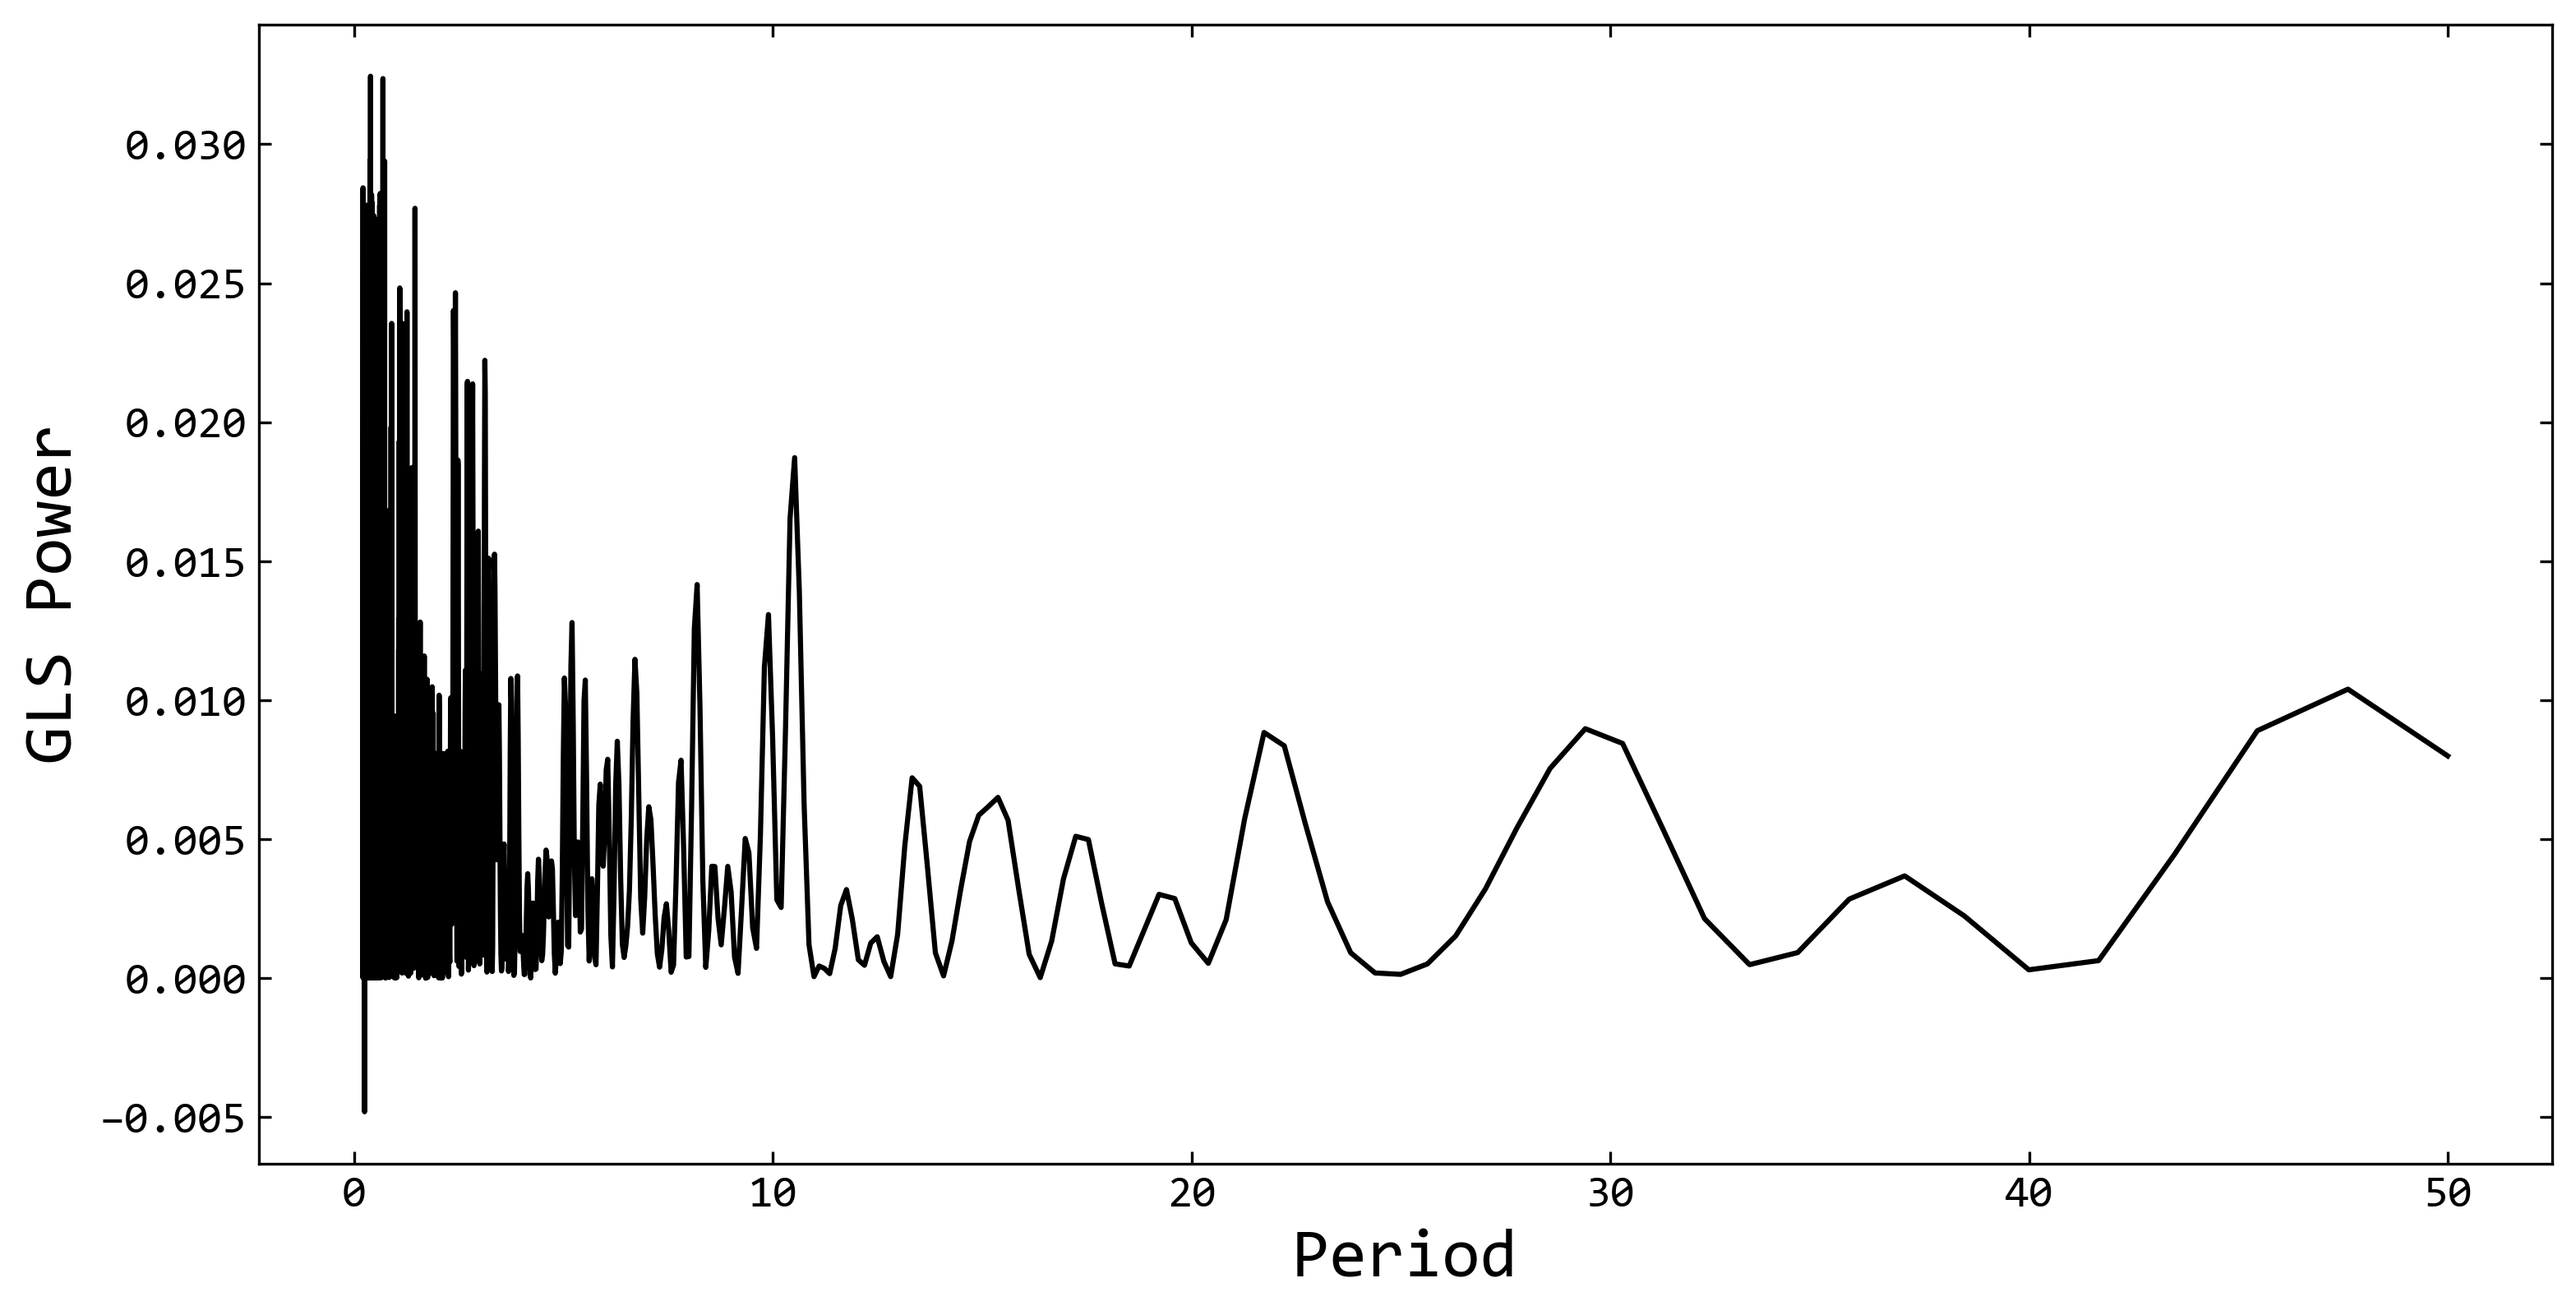
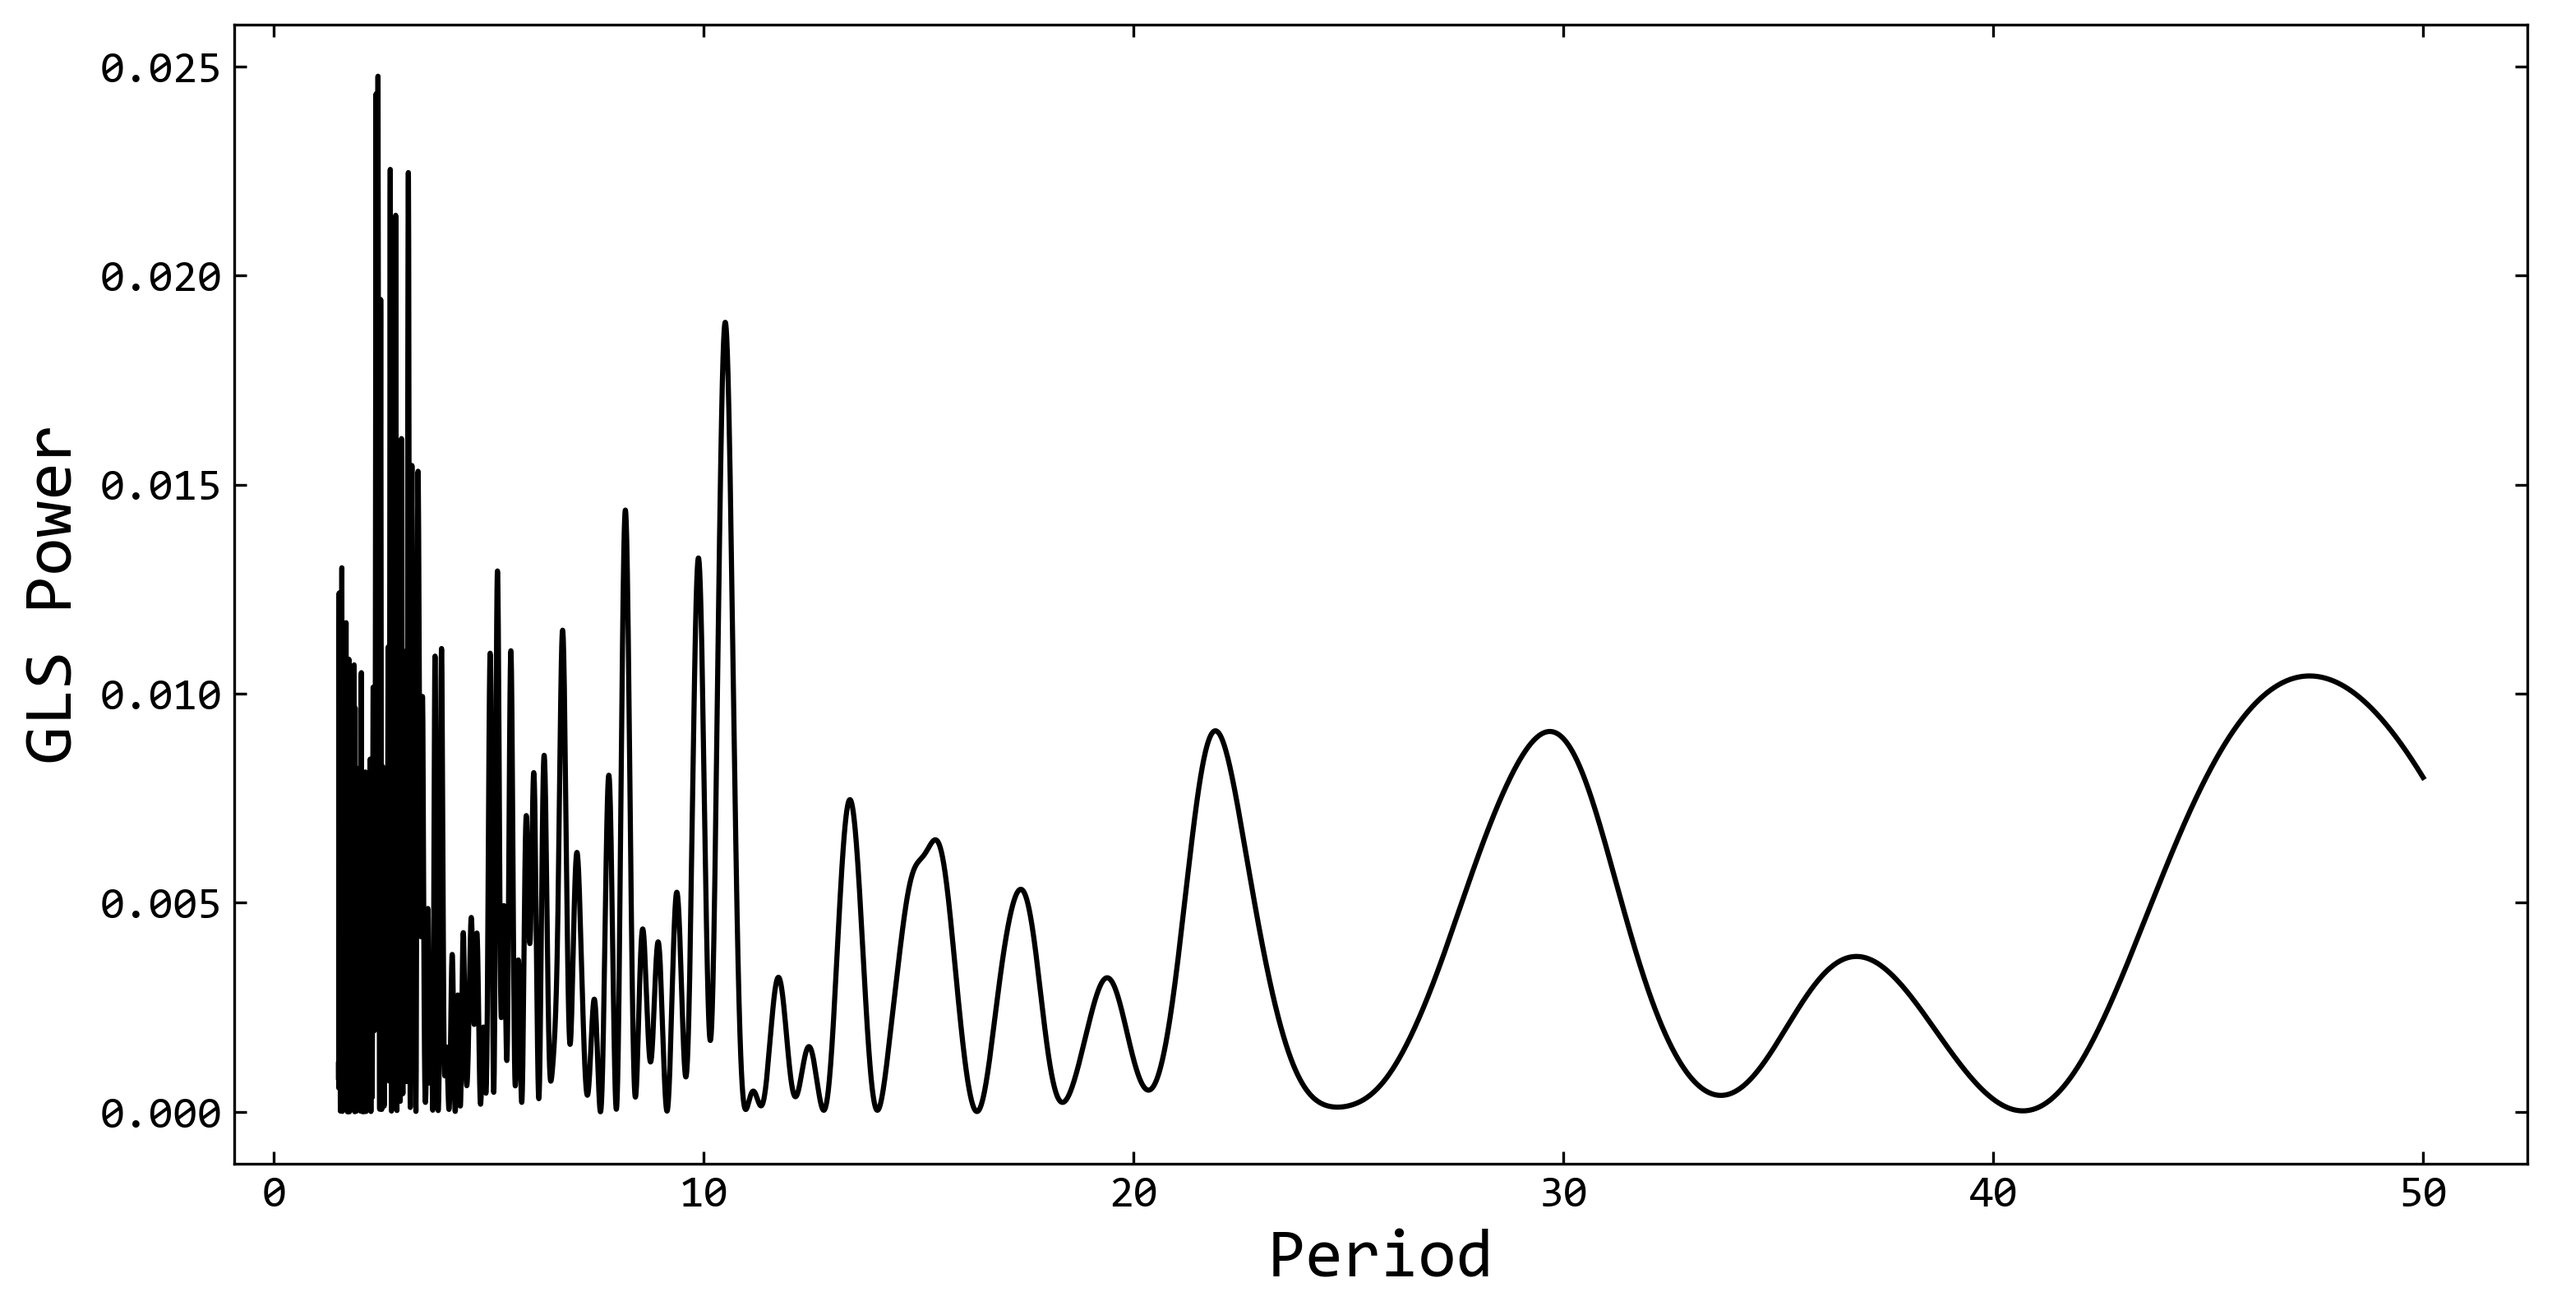
phase folding

diff --git a/PHY4005/q7.py b/PHY4005/q7.py
@@ -1,6 +1,8 @@
 import numpy as np
 from matplotlib import pyplot as plt
 from astropy.timeseries import LombScargle
+from scipy.optimize import curve_fit
+
 
 
 plt.rcParams["font.family"] = "Consolas"
@@ -30,6 +32,14 @@ data_uncertainties = {
     'Boblins_star_RVs': Boblins_star_RVs_uncertainties,
     'Watsons_star_BIS': Watsons_star_BIS_uncertainties,
     'Watsons_star_RVs': Watsons_star_RVs_uncertainties
+}
+
+data_periods = {
+    # 'Boblins_star_BIS': 2.42, # Actual: 2.42 - not correct, coppied from RV
+    'Boblins_star_BIS': 27.23, # Actual: 2.42 - not correct, coppied from RV
+    'Boblins_star_RVs': 27.23,
+    'Watsons_star_BIS': 24.78,
+    'Watsons_star_RVs': 24.87
 }
 
 def my_plot(x, y, x_label, y_label, filename):
@@ -71,6 +81,11 @@ def my_plot(x, y, x_label, y_label, filename):
 
     plt.show()
 
+
+# Sine wave
+def sinusoidal(t, A, f, phi, c):
+    return A * np.sin(2 * np.pi * f * t + phi) + c
+
 for data in data_files:
 
     my_plot(
@@ -85,13 +100,30 @@ for data in data_files:
     # dominated by data gaps and the baseline of the data themselves.
     max_period = 50  # in days
     min_frequency = 1.0 / max_period
+    min_period = 1.5  # in days
+    max_frequency = 1.0 / min_period
 
     # Generalised Lomb Scargle periodogram
     frequency, power = LombScargle(
         Observing_times,
         data_files[data],
         dy=data_uncertainties[data]
-    ).autopower(minimum_frequency=min_frequency)
+    ).autopower(
+        maximum_frequency=max_frequency,
+        minimum_frequency=min_frequency,
+        samples_per_peak=1000
+    )
+
+    # Find the index of the maximum power
+    max_power_index = np.argmax(power)
+
+    # Get the corresponding frequency
+    frequency_at_max_power = frequency[max_power_index]
+
+    # Calculate the period from the frequency
+    period_at_max_power = 1 / frequency_at_max_power
+
+    print(f"{data}_GLS\t{period_at_max_power} days")
 
     my_plot(
         1 / frequency,
@@ -100,3 +132,108 @@ for data in data_files:
         "GLS Power",
         f'PHY4005/plots/{data}_GLS.png'
     )
+
+
+
+    # Using periods obtained from periodograms
+    period = data_periods[data]
+
+    # Initial guess for the parameters of the sinusoidal function
+    A_guess = (max(data_files[data]) - min(data_files[data])) / 2
+    phi_guess = 0  # Initial phase guess
+    c_guess = np.mean(data_files[data])
+
+    # Use curve_fit to fit the sinusoidal function to the data
+    popt, pcov = curve_fit(
+        sinusoidal,
+        Observing_times,
+        data_files[data],
+        sigma=data_uncertainties[data],
+        p0=[
+            A_guess,
+            1/period,
+            phi_guess,
+            c_guess
+        ]
+    )
+
+    # Plot the original data and the fitted sinusoidal curve
+    fig, ax = plt.subplots(figsize=(12, 6))
+    ax.errorbar(
+        Observing_times,
+        data_files[data],
+        yerr=data_uncertainties[data],
+        fmt='o',
+        label='Original Data',
+        color='blue'
+    )
+    ax.plot(
+        Observing_times,
+        sinusoidal(Observing_times, *popt),
+        label='Fitted Curve',
+        color='red'
+    )
+
+    ax.set_xlabel(
+        'Time',
+        fontsize=20
+    )
+    ax.set_ylabel(
+        'Radial Velocity',
+        fontsize=20
+    )
+    ax.tick_params(
+        axis='x',
+        labelsize=13,
+        rotation=0,
+        direction='in',
+        top=True,
+        labelbottom=True
+    )
+    ax.tick_params(
+        axis='y',
+        labelsize=13,
+        which='both',
+        direction='in',
+        right=True,
+        labelbottom=True
+    )
+
+    ax.legend()
+
+    plt.savefig(
+        f'PHY4005/plots/{data}_best_fit.png',
+        dpi=300,
+        bbox_inches='tight'
+    )
+
+    plt.show()
+
+    # Print the parameters of the fitted sinusoidal curve
+    print("Amplitude (A):", popt[0])
+    print("Frequency (f):", popt[1])
+    print("Phase (phi):", popt[2])
+    print("Constant (c):", popt[3])
+    print()
+
+    # Calculate the phase of each observation
+    phase = (Observing_times / period) % 1  # Phase-fold the observations
+
+    # Sort the observations by phase
+    sorted_indices = np.argsort(phase)
+    phase_sorted = phase[sorted_indices]
+    data_sorted = data_files[data][sorted_indices]
+
+    # Plot the phase-folded data points
+    plt.figure(figsize=(10, 5))
+    plt.errorbar(phase_sorted, data_sorted, yerr=data_uncertainties[data][sorted_indices], fmt='o', label='Phase-folded Data Points', color='blue')
+
+    # Plot the best-fitting model over the phase-folded data
+    plt.plot(phase_sorted, sinusoidal(Observing_times[sorted_indices], *popt), label='Best-fitting Model', color='red')
+
+    plt.xlabel('Phase')
+    plt.ylabel('Radial Velocity')
+    plt.title('Phase-folded Data and Best-fitting Model')
+    plt.legend()
+    plt.grid(True)
+    plt.show()
